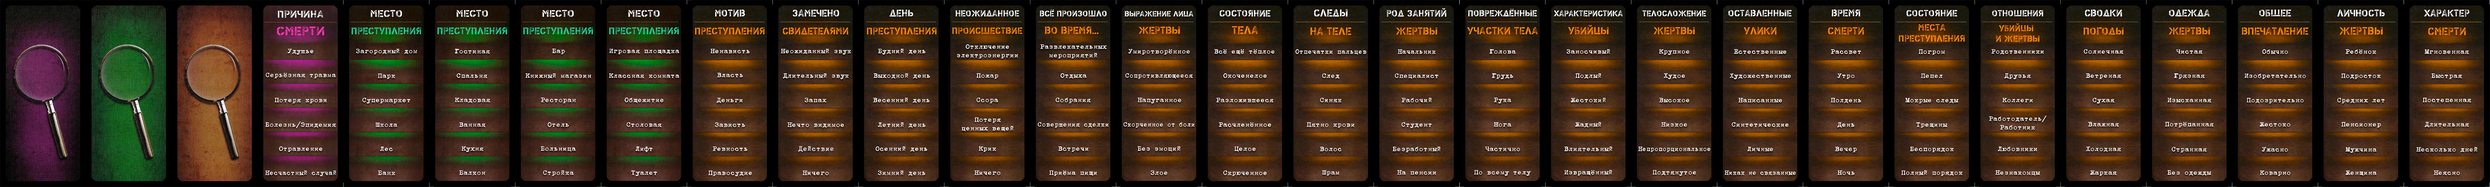
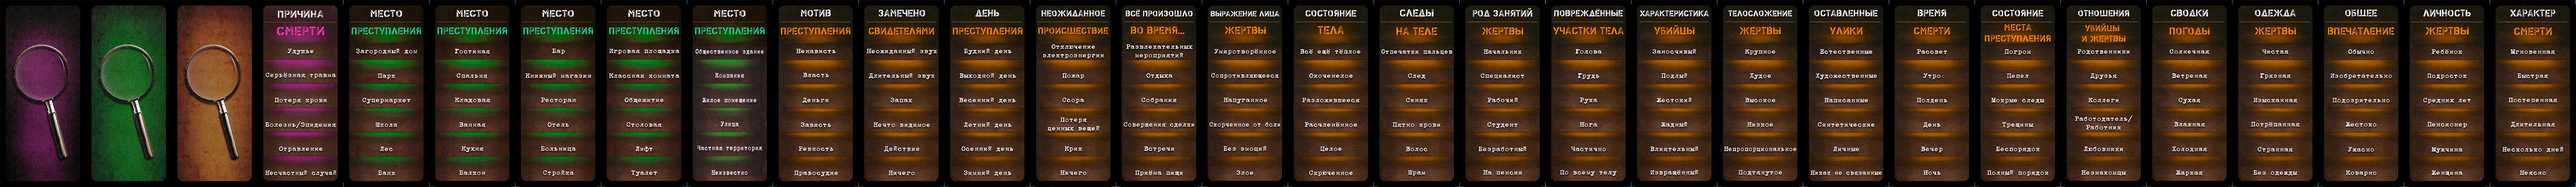
Customizations added

diff --git a/module.js b/module.js
@@ -50,6 +50,7 @@ function init(wsServer, path) {
                     managedVoice: true,
                     cardsSize: 4,
                     nextGameCardsSize: 4,
+                    simpleLocations: false,
                     testMode
                 },
                 state = {
@@ -143,7 +144,7 @@ function init(wsServer, path) {
                             state.assistant = getRandomPlayer([room.master, state.murderer]);
                             state.witness = getRandomPlayer([room.master, state.murderer, state.assistant]);
                         }
-                        room.reconTiles = [3, 4, 5, 6, 7, 2];
+                        room.reconTiles = !room.simpleLocations ? [3, 4, 5, 6, 7, 2] : [3, 8, 2, 2, 2, 2];
                         room.reconBullets = {};
                         room.cards = {};
                         if (deckState.weapon.length < playersCount * room.cardsSize)
@@ -176,8 +177,8 @@ function init(wsServer, path) {
                     room.phase = 2;
                     state.crimePlan = null;
                     room.crimeWin = true;
-                    deckState.recon = shuffleArray(Array(21).fill(null).map((v, index) => index + 8));
-                    room.reconTiles = [3, 4].concat(deckState.recon.splice(0, 4));
+                    deckState.recon = shuffleArray(Array(21).fill(null).map((v, index) => index + 9));
+                    room.reconTiles = [3, !room.simpleLocations ? 4 : 8].concat(deckState.recon.splice(0, 4));
                     startTimer();
                     update();
                     updateState();
@@ -421,7 +422,7 @@ function init(wsServer, path) {
                     update();
                 },
                 "change-location-tile": (slot) => {
-                    if (slot === room.master && room.reconBullets[1] === undefined) {
+                    if (slot === room.master && room.reconBullets[1] === undefined && !room.simpleLocations) {
                         room.reconTiles[1]++;
                         if (room.reconTiles[1] === 8)
                             room.reconTiles[1] = 4;
@@ -560,6 +561,11 @@ function init(wsServer, path) {
                             room.personTime = 240;
                         }
                     }
+                    update();
+                },
+                "toggle-simple-locations": (user) => {
+                    if (user === room.hostId)
+                        room.simpleLocations = !room.simpleLocations;
                     update();
                 },
                 "abort-game": (user) => {

diff --git a/public/app.jsx b/public/app.jsx
@@ -161,7 +161,7 @@ class ReconTile extends React.Component {
                          onClick={() => props.game.handleSwapReconTile(props.tileId)}>
                         <i className="material-icons">repeat</i>
                     </div>) : ""}
-                {isMaster && props.tileId === 1 && unselected ? (
+                {isMaster && props.tileId === 1 && unselected && !props.data.simpleLocations ? (
                     <div className="recon-tile-change-location-button"
                          onClick={(evt) => !evt.stopPropagation() && props.game.handleChangeLocationTile()}>
                         <i className="material-icons">filter_none</i>
@@ -491,6 +491,10 @@ class Game extends React.Component {
 
     handleClickTogglePause() {
         this.socket.emit("toggle-pause");
+    }
+
+    handleToggleSimpleLocations() {
+        this.socket.emit("toggle-simple-locations");
     }
 
     handleToggleTimed() {
@@ -958,6 +962,12 @@ class Game extends React.Component {
                                                   className="material-icons start-game settings-button">record_voice_over</i>)
                                             : (<i onClick={() => this.handleToggleSpeechMode()}
                                                   className="material-icons start-game settings-button">voice_over_off</i>)) : ""}
+                                    {(isHost && data.phase === 0)
+                                        ? (data.simpleLocations
+                                            ? (<i onClick={() => this.handleToggleSimpleLocations()}
+                                                  className="material-icons start-game settings-button">location_off</i>)
+                                            : (<i onClick={() => this.handleToggleSimpleLocations()}
+                                                  className="material-icons start-game settings-button">location_on</i>)) : ""}
                                     {(isHost && data.paused) ? (data.teamsLocked
                                         ? (<i onClick={() => this.handleToggleTeamLockClick()}
                                               className="material-icons start-game settings-button">lock_outline</i>)
